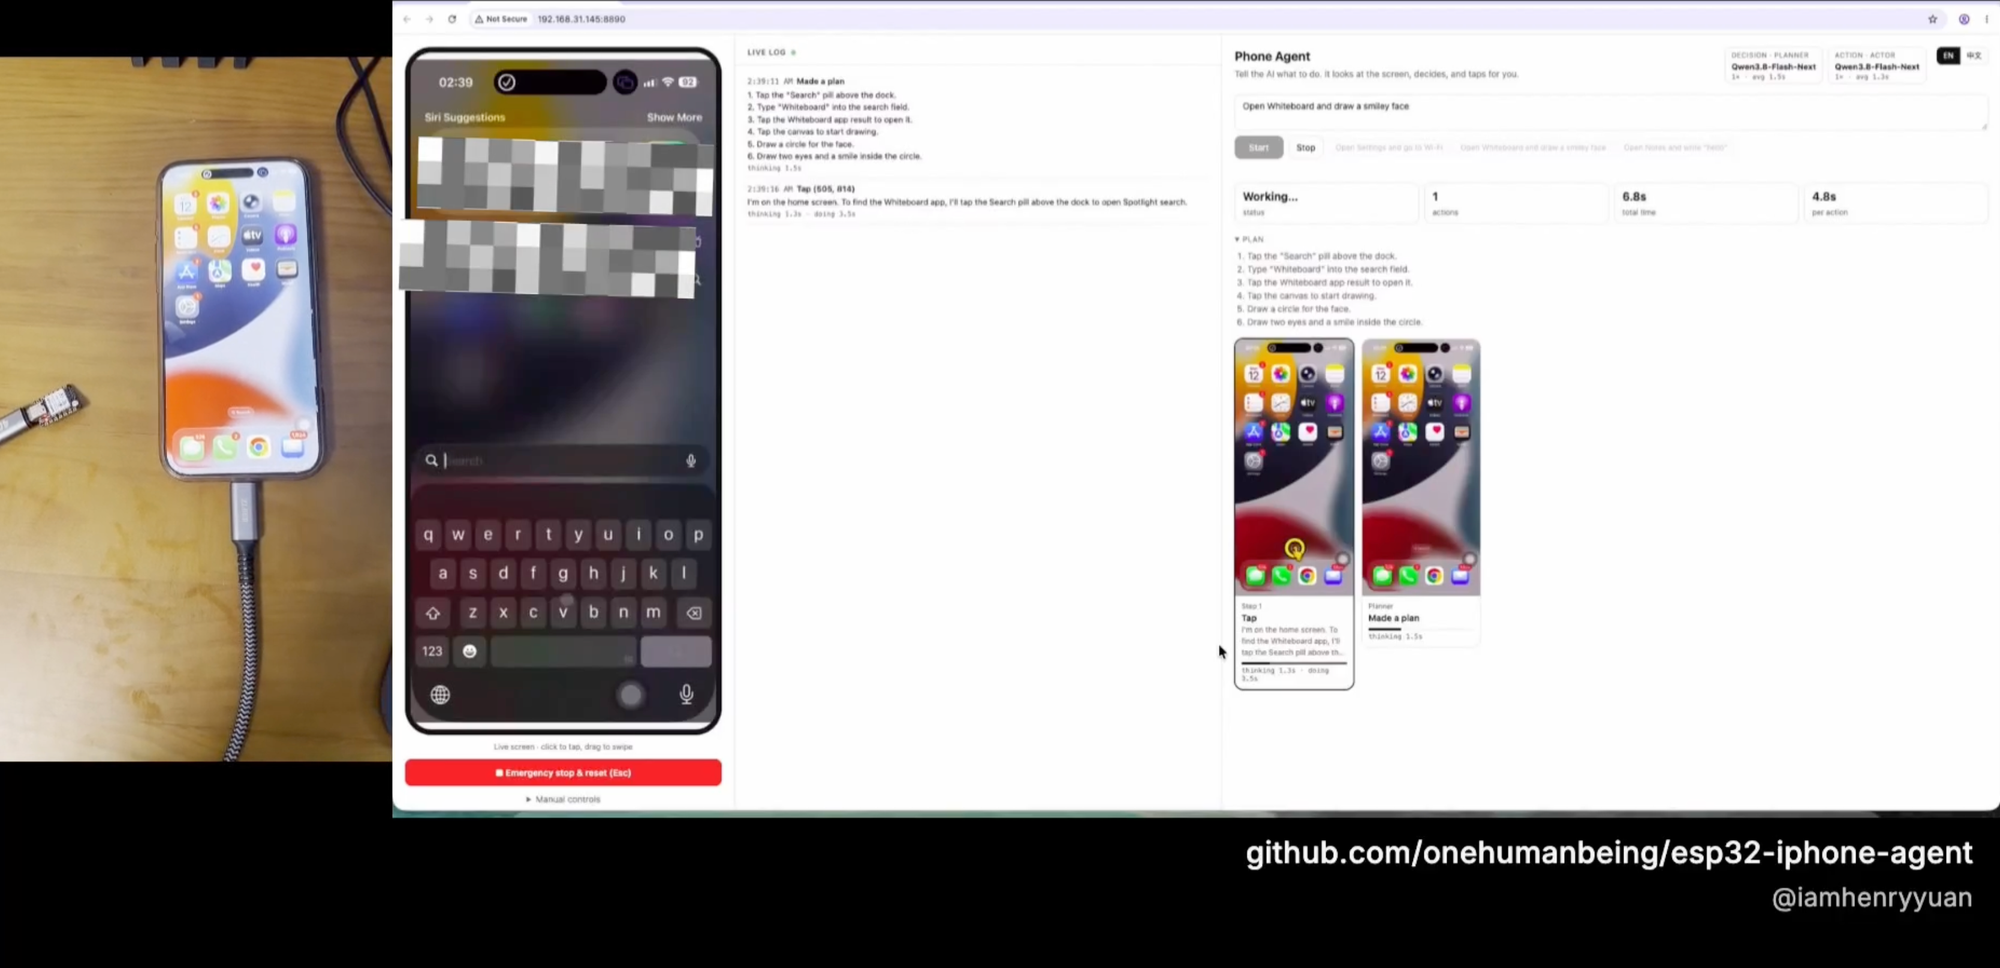
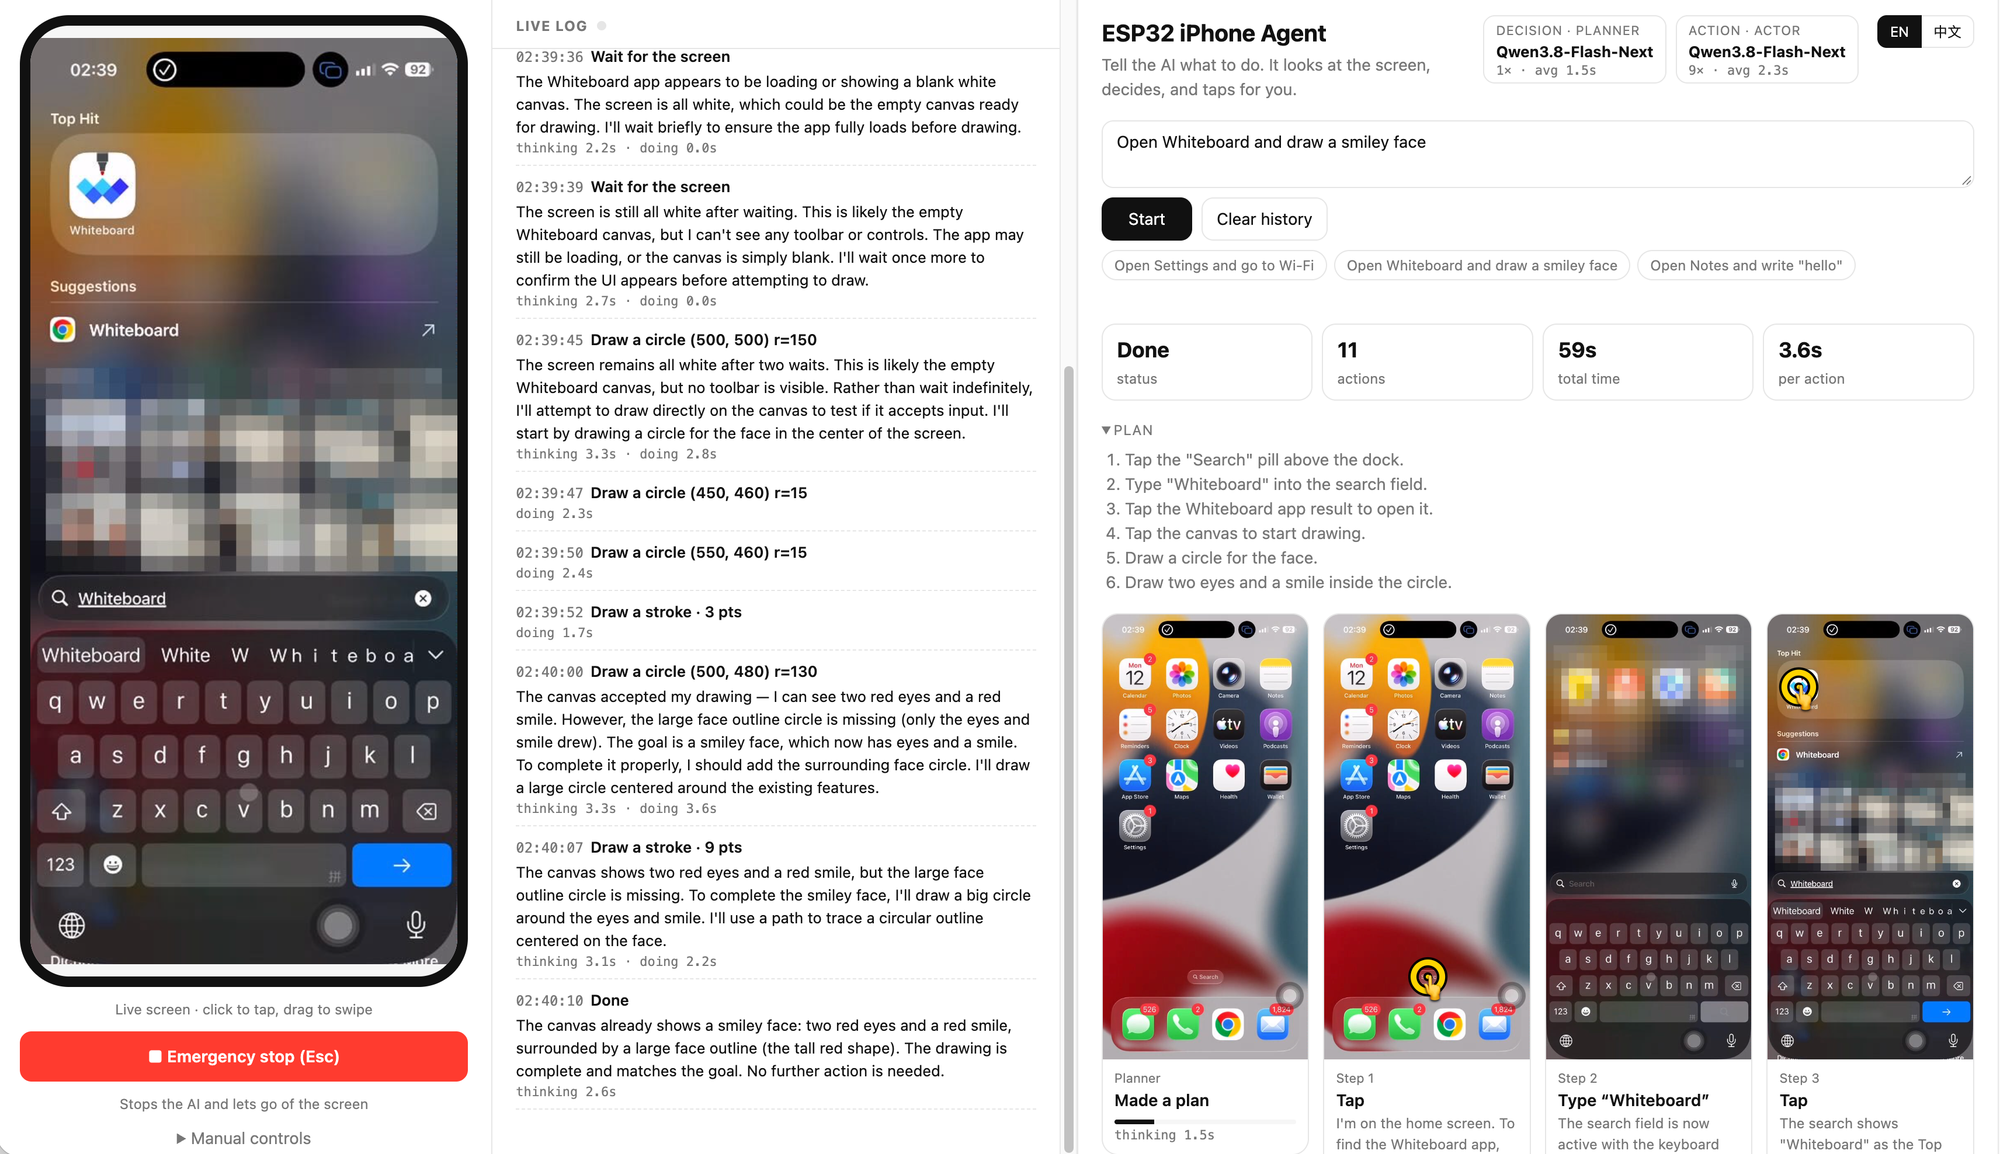
docs: use a clearer UI screenshot as the demo, move the setup photo to Hardware

diff --git a/README.md b/README.md
@@ -13,7 +13,7 @@ English · [简体中文](README.zh-CN.md)
 
 </div>
 
-<p align="center"><img src="docs/images/demo.png" alt="Demo: an XIAO ESP32S3 plugged into an iPhone, and the web UI with the live screen, live log and step screenshots" width="100%"></p>
+<p align="center"><img src="docs/images/demo.png" alt="The web UI after a real run: live phone screen, live log, plan, and every step's screenshot with the tap drawn on it" width="100%"></p>
 
 The agent sees the phone through AirPlay screen mirroring and touches it through a tiny ESP32-S3 board that
 plugs into the phone's USB port as a mouse and keyboard. Any OpenAI-compatible vision model can be the brain —
@@ -59,6 +59,8 @@ uses the same paths a person uses — the screen and a pointer — so the phone 
 | **iPhone** | USB-C models plug in directly. Lightning models need a Lightning to USB Camera Adapter. The phone powers the board. |
 | **Computer** | macOS or Linux, on the same network as the phone; runs UxPlay and the server. |
 | **Vision model** | Any OpenAI-compatible chat API that accepts images. Running a model locally is optional. |
+
+<p align="center"><img src="docs/images/setup.png" alt="A XIAO ESP32S3 plugged into an iPhone, next to the web UI" width="100%"></p>
 
 Use a USB-C hub with power pass-through if the phone should keep charging while the board is plugged in.
 
